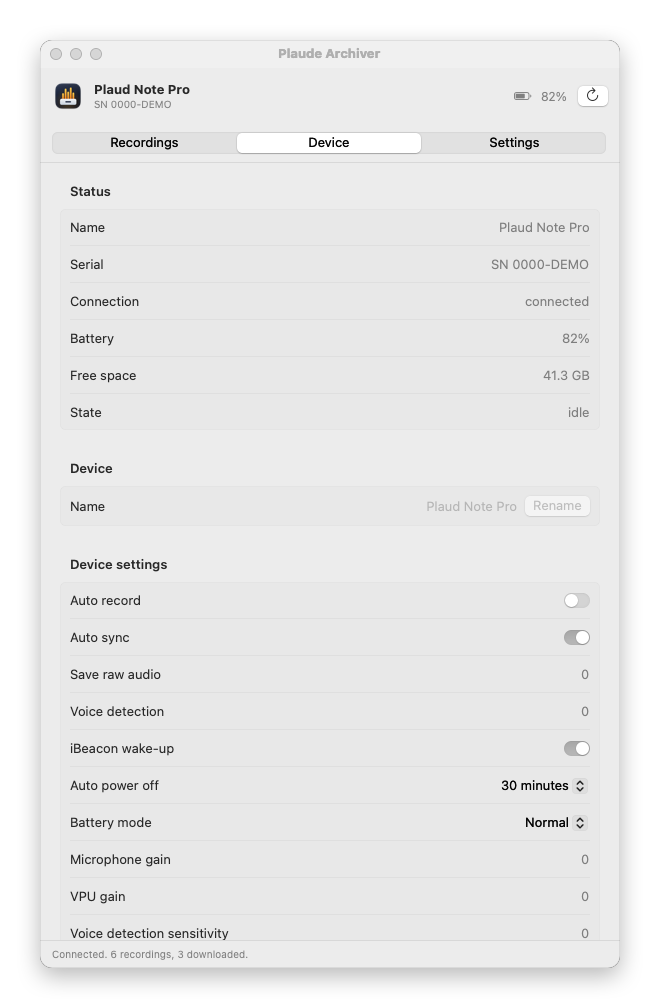
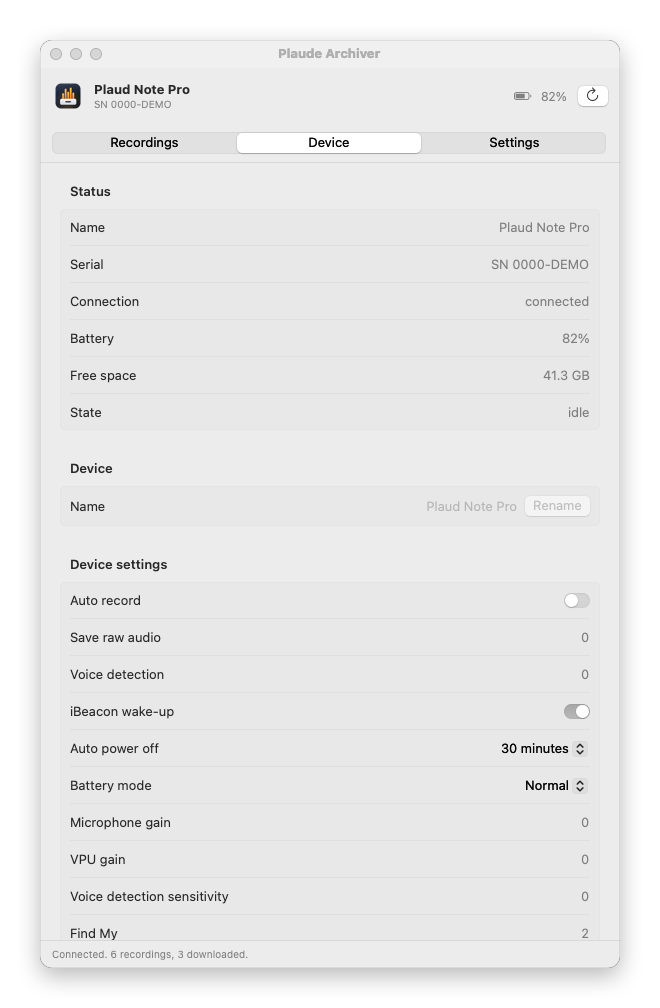
Remove the auto sync setting: it uploads recordings to Plaud's cloud
Auto sync (setting 26) is the Plaud app's "Sync in idle": the app writes it
from setSyncInIdleState, next to the commands that save Wi-Fi networks on
the device, and its own text says the recorder then "auto-uploads
recordings to your cloud when charging and connected to saved Wi-Fi". An
archiver that keeps recordings off Plaud's cloud should not offer it.

Also in DEVICE_OPERATIONS.md: the Wi-Fi reads getting no reply does not
prove the Note Pro has no Wi-Fi (its handshake flags Wi-Fi support), and
auto record (25) has no description in the app; its "auto record" text is
for Plaud One earbuds, which use setting 37.

diff --git a/PlaudeArchiver/Sources/PlaudeArchiver/DeviceModel.swift b/PlaudeArchiver/Sources/PlaudeArchiver/DeviceModel.swift
@@ -345,10 +345,11 @@ final class DeviceModel: ObservableObject {
         for def in DeviceSetting.all {
             out.append("setting \(def.id) \(def.label): \(await text { try await self.ble.readSetting(def.id) })")
         }
-        // Change each editable setting, read it back, then restore it. Skipped: "Shut down" for
+        // Change each editable setting, read it back, then restore it. Auto sync (26) is not written:
+        // it would let the device upload to Plaud's cloud. Skipped: "Shut down" for
         // auto power off (it could switch the device off). Auto record is on for about a second.
         let flips: [(UInt16, String, (UInt32) -> UInt32)] = [
-            (26, "auto sync", { 1 - min($0, 1) }), (25, "auto record", { 1 - min($0, 1) }),
+            (25, "auto record", { 1 - min($0, 1) }),
             (49, "iBeacon wake-up", { 1 - min($0, 1) }),
             (23, "auto power off", { $0 == 5 ? 4 : 5 }), (32, "battery mode", { $0 == 2 ? 0 : 2 }),
         ]
@@ -782,7 +783,8 @@ final class DeviceModel: ObservableObject {
 // 2026-10-24), with values from the official app's enums. The app's source shows no range for
 // gain, sensitivity, Find My or auto-delete, so those are shown but not written. A write test on
 // the same day: the Note Pro accepts the editable ones, and keeps "save raw audio" and
-// "voice detection" at 0 whatever is written.
+// "voice detection" at 0 whatever is written. Auto sync (26) is left out on purpose: it is the
+// Plaud app's "Sync in idle", where the device uploads recordings to Plaud's cloud over Wi-Fi.
 struct DeviceSetting: Identifiable {
     enum Kind { case toggle, choice([(UInt32, String)]), readOnly }
     let id: UInt16
@@ -794,7 +796,6 @@ struct DeviceSetting: Identifiable {
 
     static let all: [DeviceSetting] = [
         DeviceSetting(id: 25, label: "Auto record", kind: .toggle),
-        DeviceSetting(id: 26, label: "Auto sync", kind: .toggle),
         DeviceSetting(id: 24, label: "Save raw audio", kind: .readOnly, help: refused),
         DeviceSetting(id: 15, label: "Voice detection", kind: .readOnly, help: refused),
         DeviceSetting(id: 49, label: "iBeacon wake-up", kind: .toggle),

diff --git a/PlaudeArchiver/Sources/PlaudeArchiver/Screenshots.swift b/PlaudeArchiver/Sources/PlaudeArchiver/Screenshots.swift
@@ -49,7 +49,7 @@ enum Screenshots {
         m.storage = StorageInfo(free: 41_300_000_000, total: 64_000_000_000, durationSeconds: 0)
         m.recordingState = RecordingState(state: .idle, sessionId: 0, rawCode: 0, rawKey: 0)
         m.settingsLoaded = true
-        m.settingValues = [25: 0, 26: 1, 24: 0, 15: 0, 49: 1, 23: 3, 32: 0, 20: 0, 19: 0, 18: 0, 27: 2, 4: 1]
+        m.settingValues = [25: 0, 24: 0, 15: 0, 49: 1, 23: 3, 32: 0, 20: 0, 19: 0, 18: 0, 27: 2, 4: 1]
         // (day, hour, minute) in October 2026, size in bytes, state
         let sample: [(Int, Int, Int, Int, Recording.State)] = [
             (24, 10, 5, 18_400_000, .onDevice), (23, 16, 40, 42_100_000, .onDevice),

diff --git a/DEVICE_OPERATIONS.md b/DEVICE_OPERATIONS.md
@@ -10,7 +10,7 @@ Tested on a Note Pro (serial prefix 881, protocol 20) with the app's hidden mode
 |---|---|---|
 | Set the clock | 4: `[unix u32][tz hours i8][tz minutes i8]` | works |
 | Common settings, read | 8: `[1][setting u16]`, reply `[setting u16][value u32]`, `0xFFFFFFFF` = not on this device | 12 of 34 settings: 4, 15, 18, 19, 20, 23, 24, 25, 26, 27, 32, 49 |
-| Common settings, write | 8: `[2][setting u16][value u32]` | accepted: 23 auto power off (0, 4, 5 tried; 1 = "shut down" not tried), 25 auto record (it did not start a recording), 26 auto sync, 32 battery mode (0, 1, 2 tried), 49 iBeacon wake-up. Kept at 0 whatever is written: 15 voice detection, 24 save raw audio |
+| Common settings, write | 8: `[2][setting u16][value u32]` | accepted: 23 auto power off (0, 4, 5 tried; 1 = "shut down" not tried), 25 auto record (it did not start a recording within about 1 s; what it does is not known), 26 auto sync (see below), 32 battery mode (0, 1, 2 tried), 49 iBeacon wake-up. Kept at 0 whatever is written: 15 voice detection, 24 save raw audio |
 | Recording state | 3: `[code u32 @3][privacy @7][key @8][scene @10][session u32 @11]` | code 4099 while recording, 1 when idle. Pause does not change it |
 | Start / pause / resume / stop | 20 `[1][0]`, 21 / 22 `[session u32][0]`, 23 `[1][0]` | all work. A 4 s + 2 s paused + 3 s test gave 7.6 s of audio |
 | Device name, read / write | 108 / 107 (32 bytes, reply 108) | works |
@@ -21,7 +21,11 @@ Tested on a Note Pro (serial prefix 881, protocol 20) with the app's hidden mode
 | Device events | 19 (device to app) | none arrived during a recording |
 | Bookmarks / tags | 35, 38 | no reply |
 | LED | 24 / 25 | replies, but the state never changes |
-| No reply at all | 2, 15, 54, 106, 122, 131, 147, 149, 150, 152 | includes all Wi-Fi commands: the Note Pro has no Wi-Fi |
+| No reply at all | 2, 15, 54, 106, 122, 131, 147, 149, 150, 152 | includes the Wi-Fi reads (15, 122). That does not prove the Note Pro has no Wi-Fi: its handshake reply flags Wi-Fi support, and the reads may need Wi-Fi turned on first (`openWiFi`, cmd 16), which was not tried |
+
+**Auto sync (26) uploads to Plaud's cloud.** The Plaud app writes it from `setSyncInIdleState`, in a command group that also saves, tests and deletes Wi-Fi networks on the device. The app's own text for the NotePin: "auto-uploads recordings to your cloud when charging and connected to saved Wi-Fi". The archiver does not offer this setting.
+
+**Auto record (25) has no description in the app.** Every "auto record" text in the app is for Plaud One earbuds ("Automatically records every call or meeting through your earbuds"), and that screen writes auto *call* record (37), not 25.
 
 Two corrections to older notes in this repo: stop recording is cmd 23 (145 stops a device-log transfer), and the recording state above replaces the old reading of byte 7 as "recording" (byte 7 is the privacy flag).
 

diff --git a/README.md b/README.md
@@ -47,7 +47,7 @@ A waveform icon lives in your menu bar. Open it for a small dashboard:
   - Download, show in Finder, or delete each recording. **Download all** gets the rest, and you can cancel a download.
   - **Record**, pause, resume and stop a recording on the device. The new recording shows up in the list when you stop.
   - **Delete all** re-reads the device first. It deletes nothing if the device holds a recording you have not seen in the list, or is recording.
-- **Device**: live status (serial, battery, free space, recording state, pending firmware update), rename the device, and the device's own settings. You can change auto record, auto sync, iBeacon wake-up, auto power off and battery mode. The others the device reports are shown read-only.
+- **Device**: live status (serial, battery, free space, recording state, pending firmware update), rename the device, and the device's own settings. You can change auto record, iBeacon wake-up, auto power off and battery mode. The others the device reports are shown read-only. The app leaves out "auto sync" on purpose: in the Plaud app it is "Sync in idle", which lets the recorder upload to Plaud's cloud over Wi-Fi.
 - **Settings**: download folder, **"delete from device after download"** to stop the device filling up, and sign out.
 
 Downloads are built to never lose a recording:
@@ -106,7 +106,7 @@ open -n -W --stdout /tmp/out.txt --stderr /tmp/err.txt "Plaude Archiver.app" --a
 |------|------|
 | `--probe-device` | Reads status and lists recordings. Changes nothing. |
 | `--probe-settings` | Reads every setting and every read command, and prints the raw replies. Changes nothing. |
-| `--probe-features [--resume-from <plaud_ID.plaud>]` | Sets the clock, writes the name back unchanged, changes 5 settings and restores each one, and tests resume, the integrity check and cancel. With `--resume-from`, it also re-downloads that recording into your download folder. |
+| `--probe-features [--resume-from <plaud_ID.plaud>]` | Sets the clock, writes the name back unchanged, changes 4 settings and restores each one, and tests resume, the integrity check and cancel. With `--resume-from`, it also re-downloads that recording into your download folder. |
 | `--test-recording` | Starts, pauses, resumes and stops a recording. **Leaves a short recording on the device.** |
 | `--selftest` | Downloads the smallest recording, verifies it, then **deletes it from the device**. |
 
